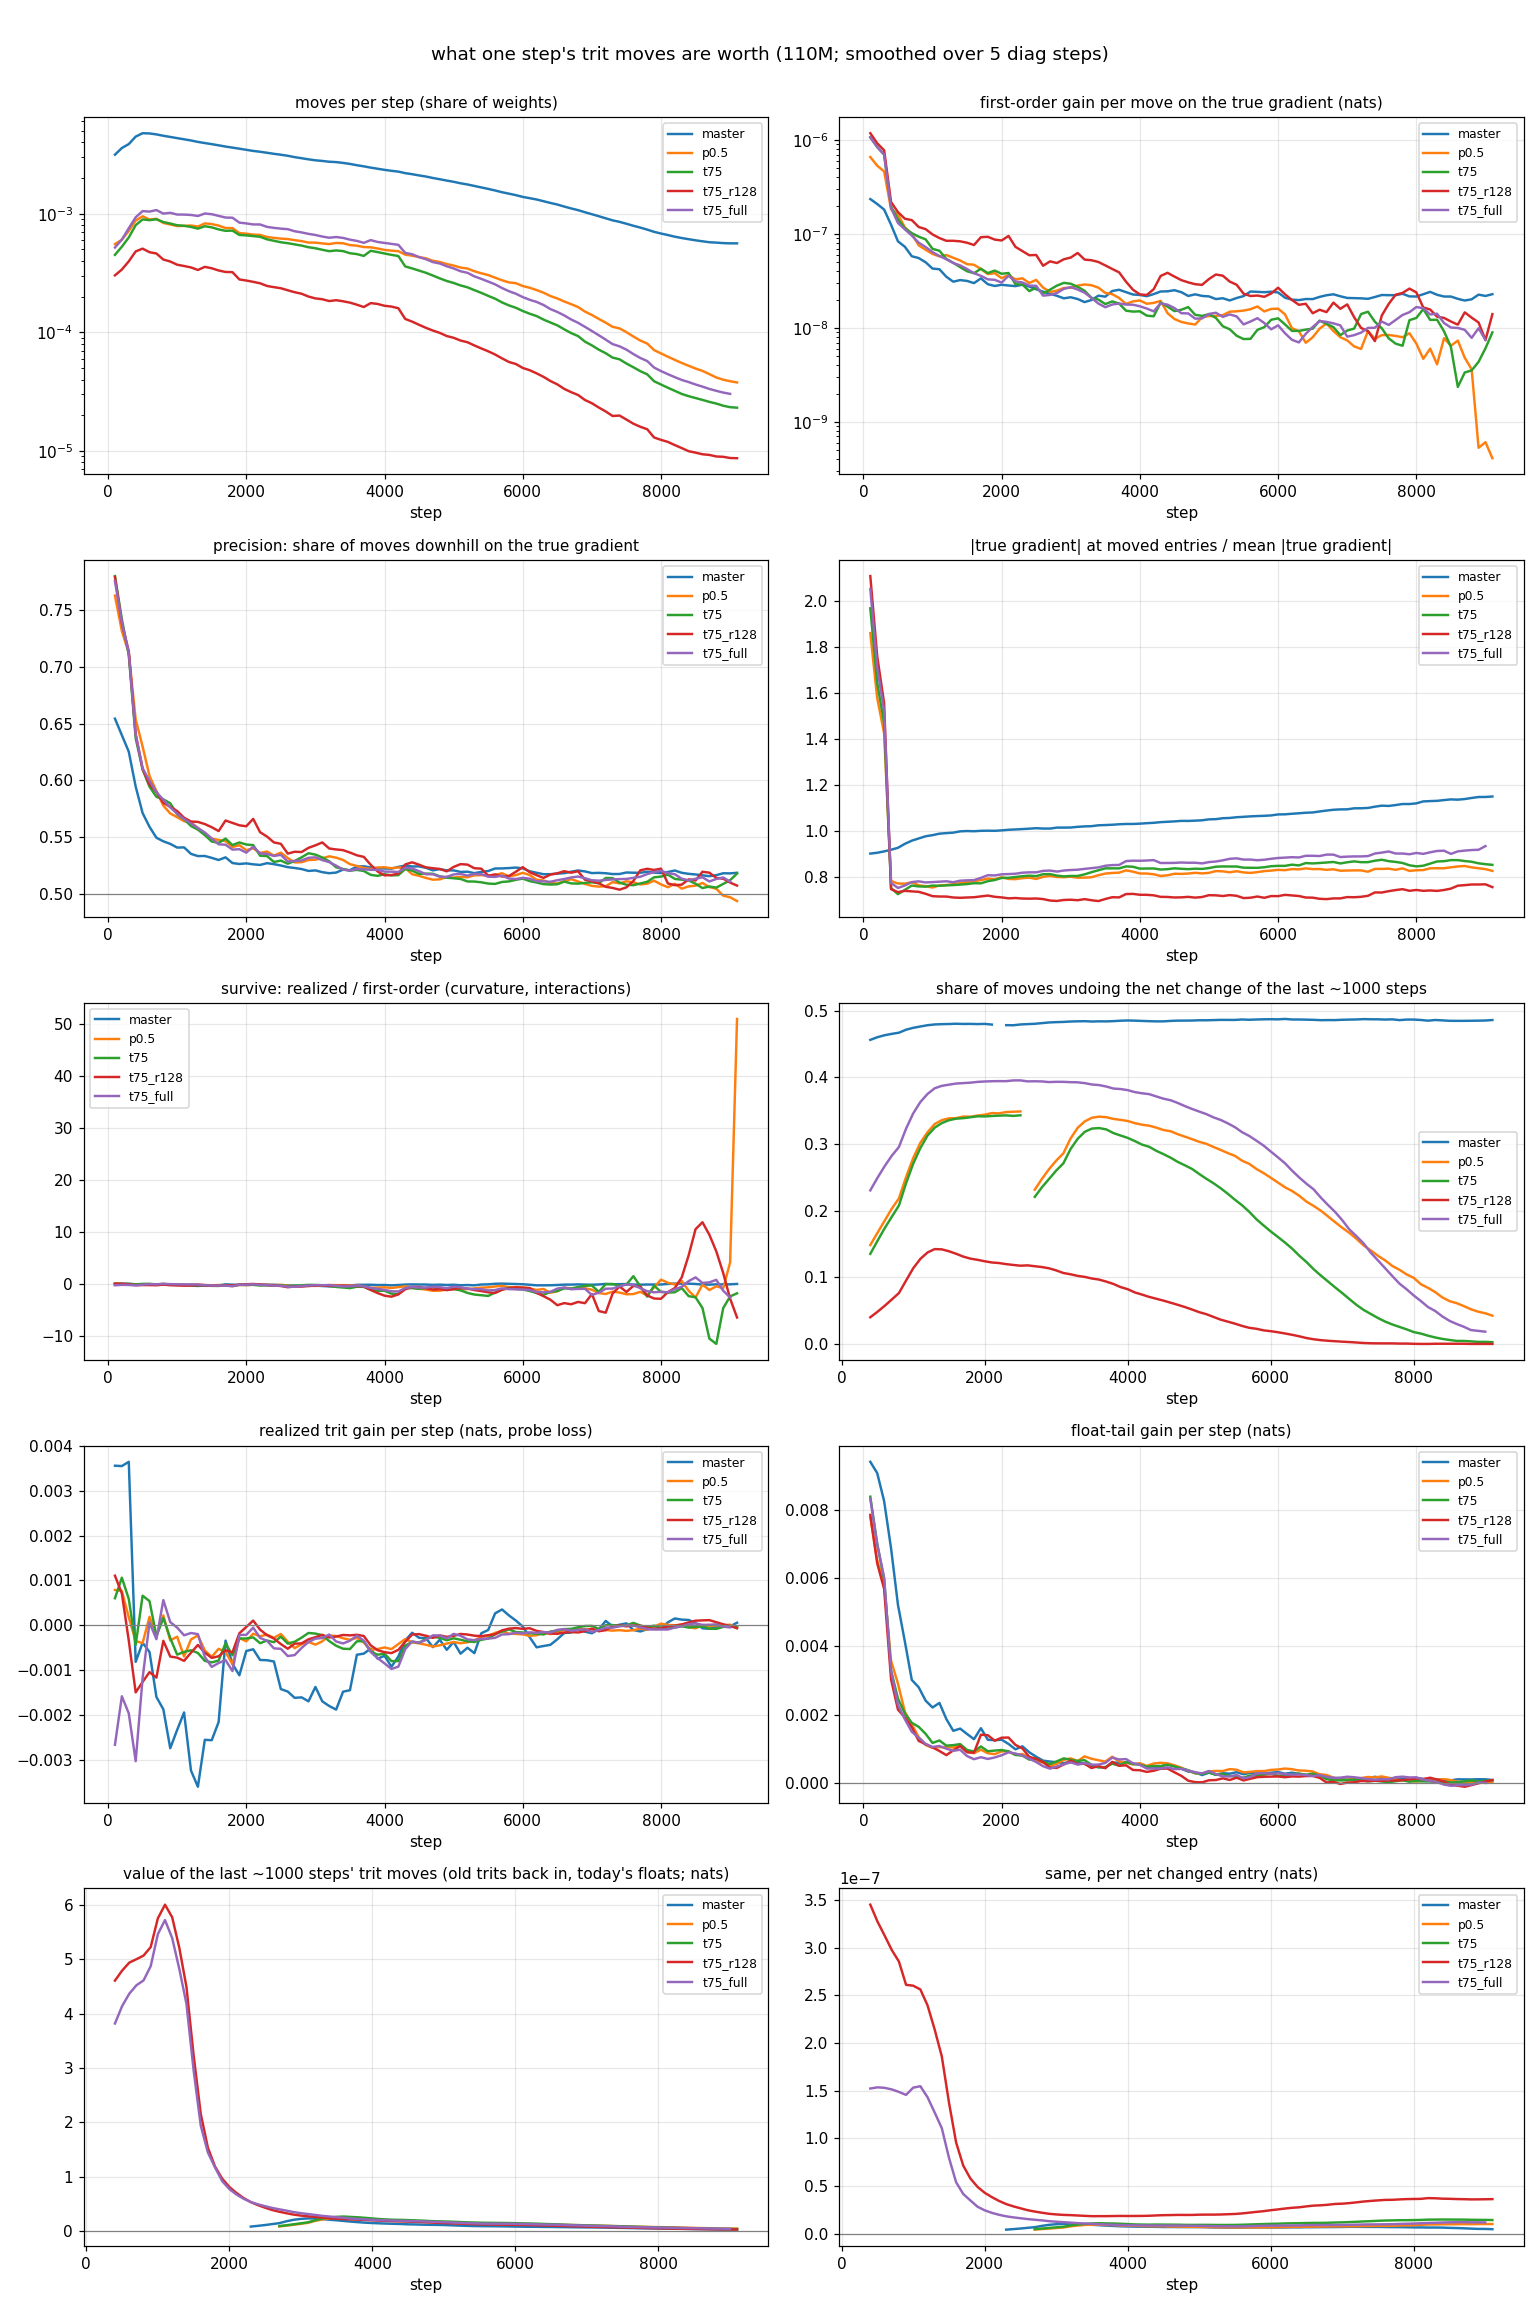
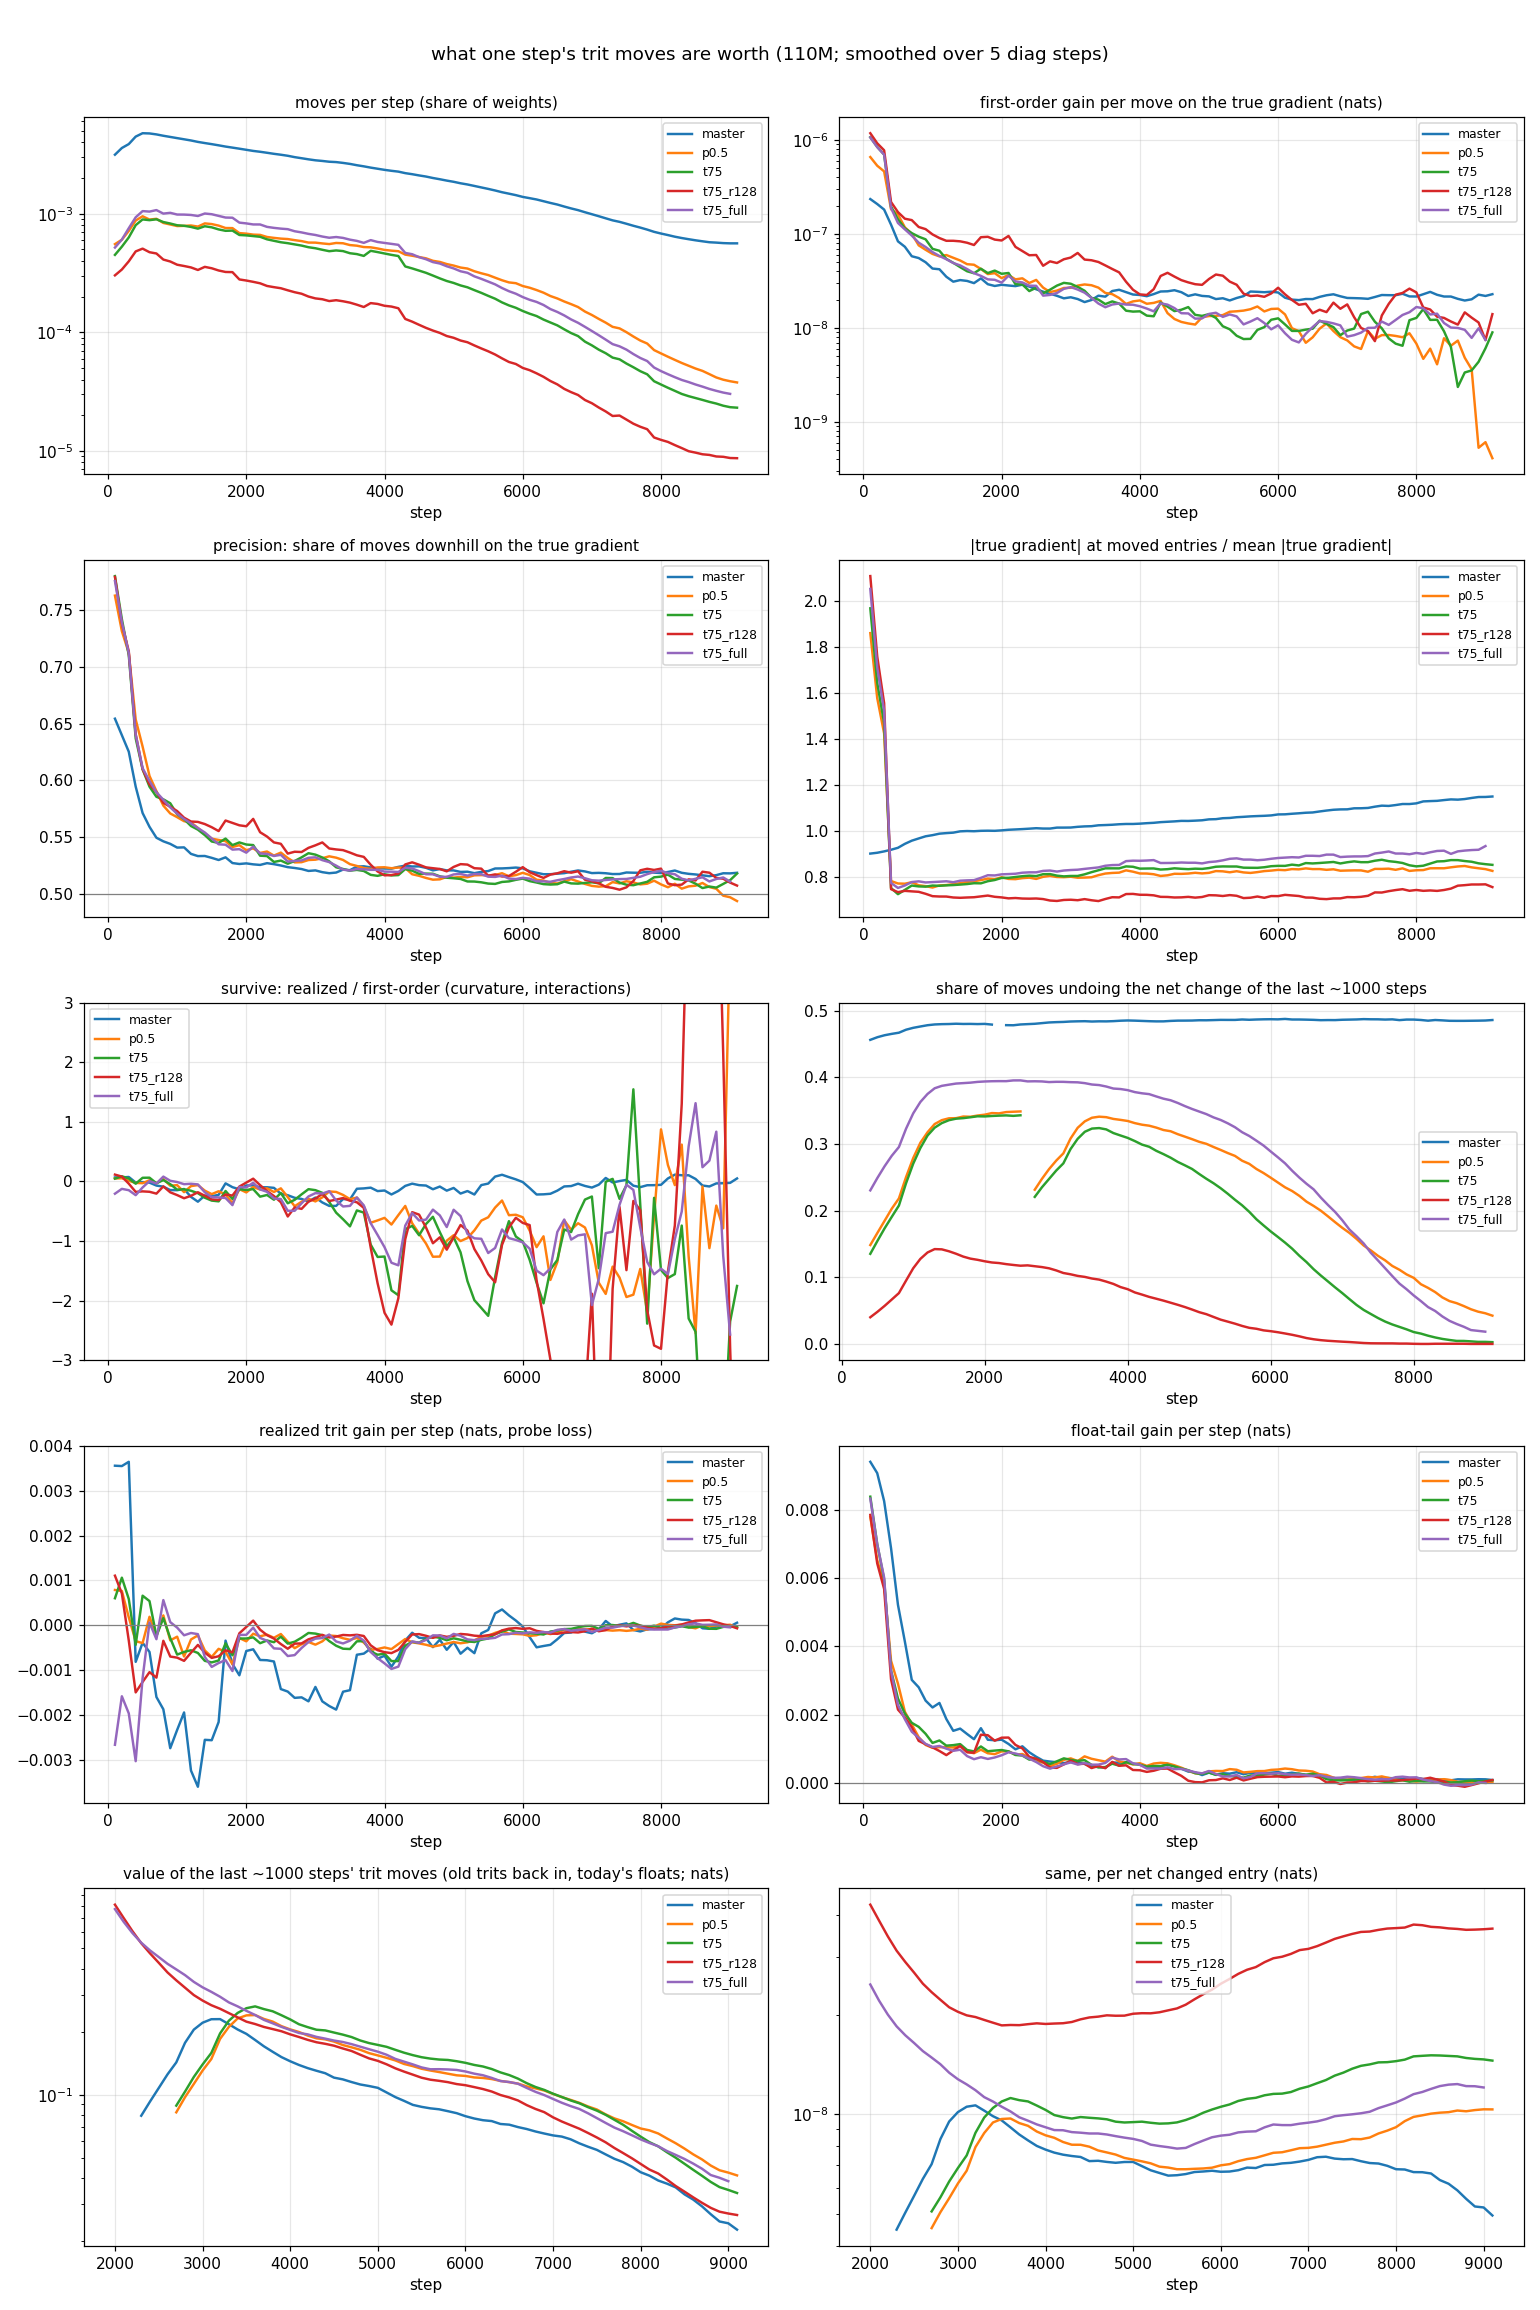
movediag_plot: window panels from step 2000 on log scale, survive clipped

diff --git a/scripts/analysis/movediag_plot.py b/scripts/analysis/movediag_plot.py
@@ -53,9 +53,17 @@ for ax, (k, title, logy) in zip(axs, panels):
             y = smooth(r["md_realized"], a.window) / smooth(r["md_pred"], a.window)
         else:
             y = smooth(y, a.window)
-        ax.plot(r["step"], np.abs(y) if logy else y, label=name, lw=1.6)
+        x = r["step"]
+        if k.startswith("md_win"):       # the window needs ~1000 steps of history; its first values are the init
+            keep = x >= 2000
+            x, y = x[keep], y[keep]
+        ax.plot(x, np.abs(y) if logy else y, label=name, lw=1.6)
     ax.set_title(title, fontsize=10); ax.set_xlabel("step"); ax.grid(alpha=0.3)
     if logy:
+        ax.set_yscale("log")
+    if k == "md_survive":
+        ax.set_ylim(-3, 3)
+    if k.startswith("md_win"):
         ax.set_yscale("log")
     if k in ("md_precision",):
         ax.axhline(0.5, color="gray", lw=0.8)
